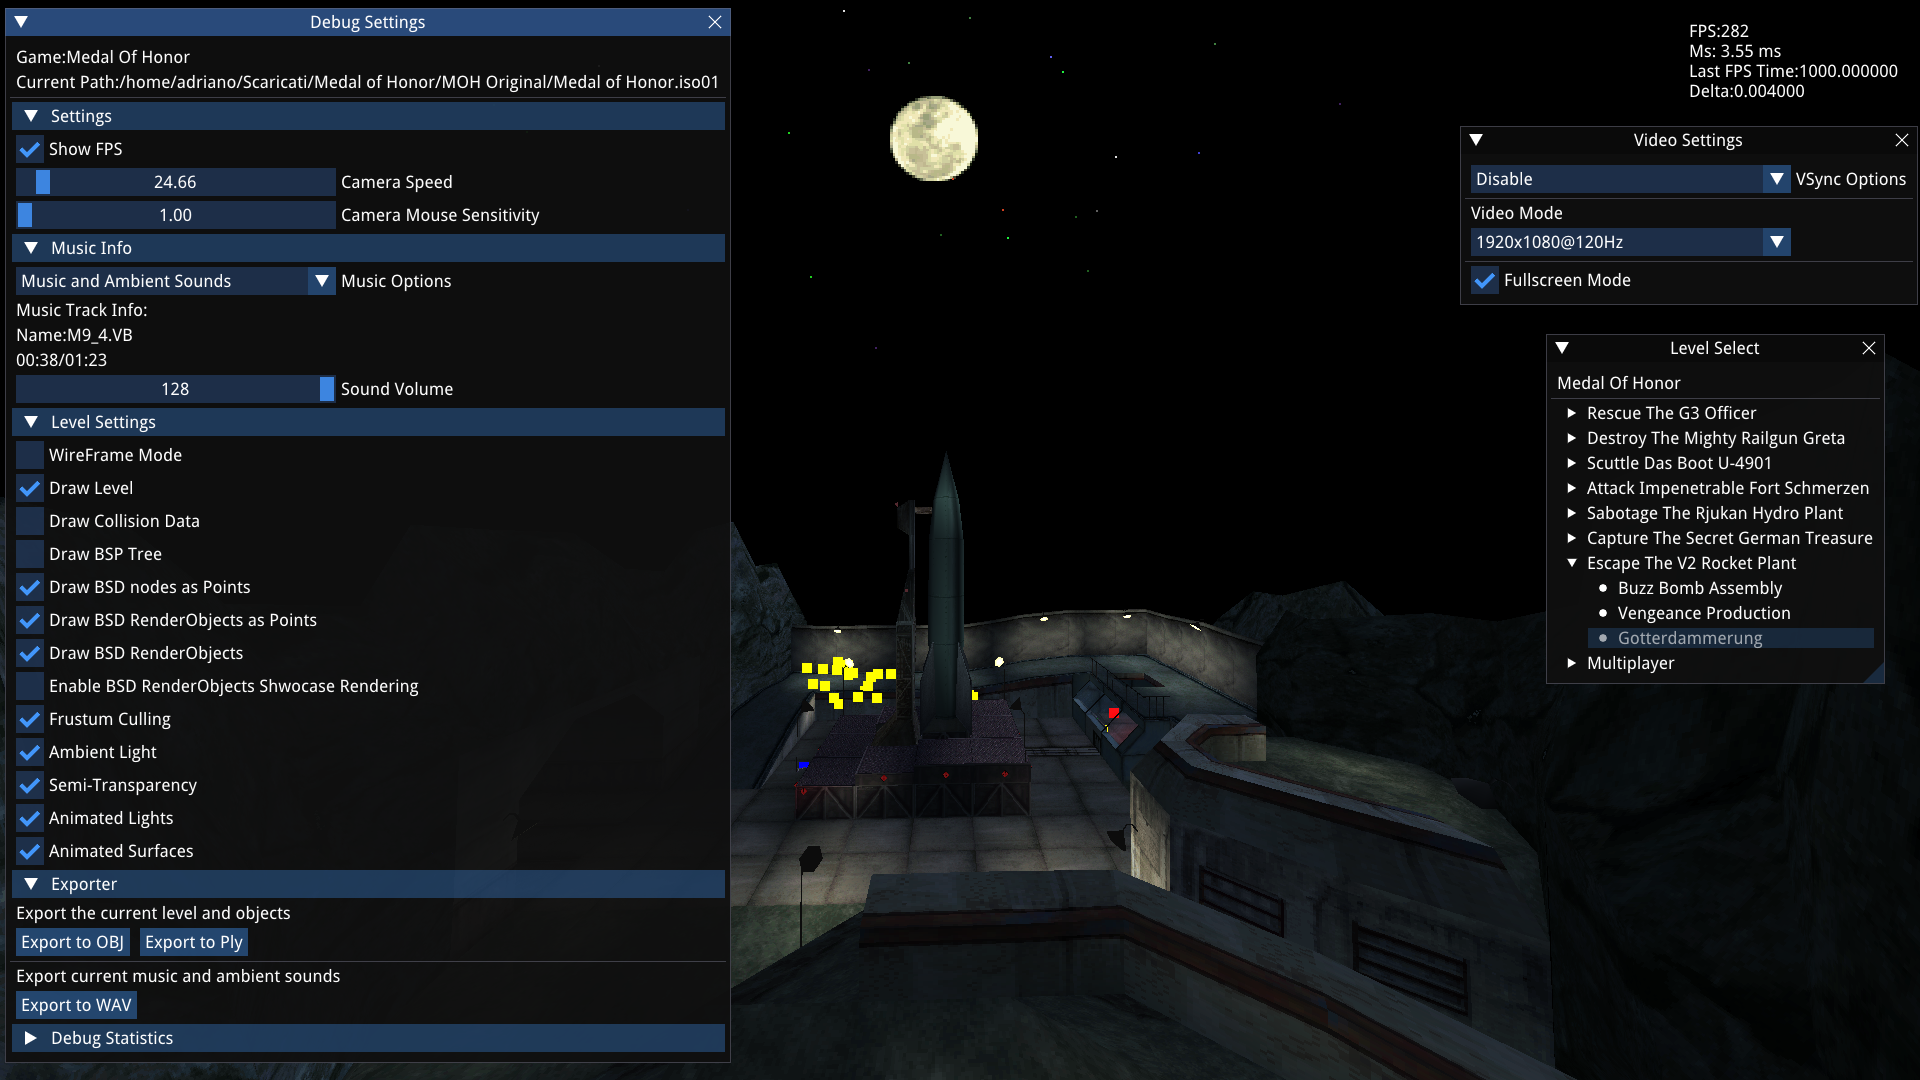
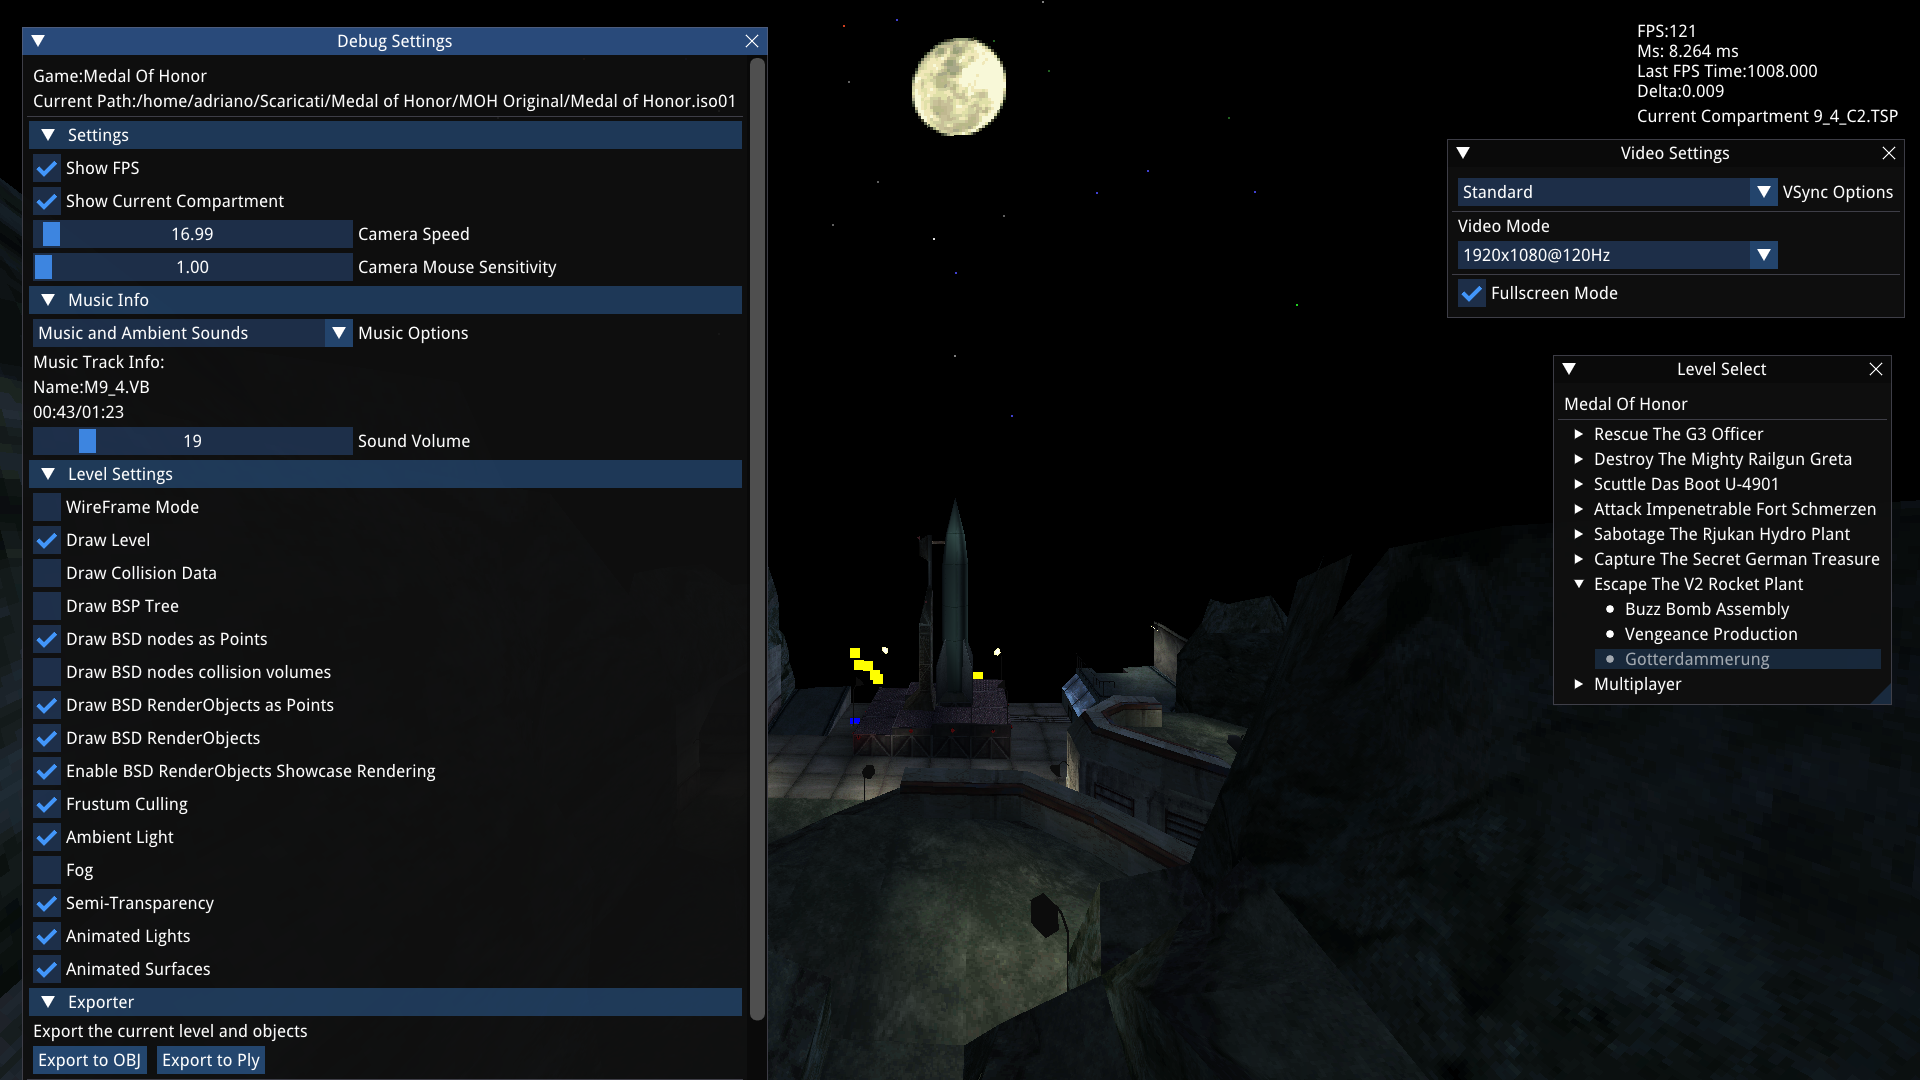
MOHLevelViewer:Added ambient fog. BSD:Added FogNear value when parsing SceneInfo struct. Level:Added a new option to enable/disable fog. LevelManager:Added the ability to update the Fog near and color value when a level is loaded. RenderObjectShader:Added Fog section to interpolate the color value w

diff --git a/src/MOHLevelViewer/BSD.c b/src/MOHLevelViewer/BSD.c
@@ -1860,6 +1860,7 @@ void BSDDraw(BSD_t *BSD,VRAM_t *VRAM,Camera_t *Camera,RenderObjectShader_t *Rend
     BSDRenderObjectDrawable_t *RenderObjectIterator;
     VAO_t *VAOIterator;
     mat4 MVPMatrix;
+    mat4 MVMatrix;
     mat4 ModelViewMatrix;
     mat4 ModelMatrix;
     vec3 PSpawn;
@@ -1926,6 +1927,7 @@ void BSDDraw(BSD_t *BSD,VRAM_t *VRAM,Camera_t *Camera,RenderObjectShader_t *Rend
             glActiveTexture(GL_TEXTURE0 + 1);
             glBindTexture(GL_TEXTURE_2D, VRAM->PalettePage.TextureId);
             glUniform1i(RenderObjectShader->EnableLightingId, LevelEnableAmbientLight->IValue);
+            glUniform1i(RenderObjectShader->EnableFogId, LevelEnableFog->IValue);
             for( RenderObjectIterator = BSD->RenderObjectDrawableList; RenderObjectIterator; 
                 RenderObjectIterator = RenderObjectIterator->Next ) {
                 glm_mat4_identity(ModelViewMatrix);
@@ -1933,8 +1935,9 @@ void BSDDraw(BSD_t *BSD,VRAM_t *VRAM,Camera_t *Camera,RenderObjectShader_t *Rend
                 glm_mat4_mul(Camera->ViewMatrix,ModelMatrix,ModelViewMatrix);
                 glm_mat4_mul(ProjectionMatrix,ModelViewMatrix,MVPMatrix);            
                 glm_rotate_x(MVPMatrix,glm_rad(180.f), MVPMatrix);
+                glm_rotate_x(ModelViewMatrix,glm_rad(180.f), MVMatrix);
                 glUniformMatrix4fv(RenderObjectShader->MVPMatrixId,1,false,&MVPMatrix[0][0]);
-
+                glUniformMatrix4fv(RenderObjectShader->MVMatrixId,1,false,&MVMatrix[0][0]);
                 for( VAOIterator = BSD->RenderObjectList[RenderObjectIterator->RenderObjectIndex].VAO; VAOIterator; 
                     VAOIterator = VAOIterator->Next ) {
                     glBindVertexArray(VAOIterator->VAOId[0]);
@@ -1952,6 +1955,7 @@ void BSDDraw(BSD_t *BSD,VRAM_t *VRAM,Camera_t *Camera,RenderObjectShader_t *Rend
         if( RenderObjectShader ) {
             glUseProgram(RenderObjectShader->Shader->ProgramId);
             glUniform1i(RenderObjectShader->EnableLightingId, LevelEnableAmbientLight->IValue);
+            glUniform1i(RenderObjectShader->EnableFogId, LevelEnableFog->IValue);
             glActiveTexture(GL_TEXTURE0 + 0);
             glBindTexture(GL_TEXTURE_2D, VRAM->TextureIndexPage.TextureId);
             glActiveTexture(GL_TEXTURE0 + 1);
@@ -1971,8 +1975,9 @@ void BSDDraw(BSD_t *BSD,VRAM_t *VRAM,Camera_t *Camera,RenderObjectShader_t *Rend
                 
                 //Emulate PSX Coordinate system...
                 glm_rotate_x(MVPMatrix,glm_rad(180.f), MVPMatrix);
+                glm_rotate_x(ModelViewMatrix,glm_rad(180.f), MVMatrix);
                 glUniformMatrix4fv(RenderObjectShader->MVPMatrixId,1,false,&MVPMatrix[0][0]);
-
+                glUniformMatrix4fv(RenderObjectShader->MVMatrixId,1,false,&MVMatrix[0][0]);
                 for( VAOIterator = BSD->RenderObjectList[i].VAO; VAOIterator; VAOIterator = VAOIterator->Next ) {
                     glBindVertexArray(VAOIterator->VAOId[0]);
                     glDrawArrays(GL_TRIANGLES, 0, VAOIterator->Count);

diff --git a/src/MOHLevelViewer/LevelManager.c b/src/MOHLevelViewer/LevelManager.c
@@ -522,6 +522,7 @@ void LevelManagerSwitchLevel(LevelManager_t *LevelManager,Level_t *NewLevel)
     if( LevelEnableMusicTrack->IValue && NewLevel->MusicList) {
         SoundSystemPlay(LevelManager->SoundSystem);
     }
+    LevelManagerUpdateRenderObjectShaderFog(LevelManager);
 }
 void LevelManagerDrawString(const LevelManager_t *LevelManager,const char *String,float x,float y,Color4f_t Color)
 {
@@ -915,7 +916,7 @@ void LevelManagerToggleFileDialog(LevelManager_t *LevelManager,GUI_t *GUI,VideoS
 int LevelManagerInitRenderObjectShader(LevelManager_t *LevelManager)
 {
     Shader_t *Shader;
-    
+    vec3 ClearColor;
     if( !LevelManager ) {
         DPrintf("LevelManagerInitRenderObjectShader:Invalid LevelManager\n");
         return 0;
@@ -933,13 +934,36 @@ int LevelManagerInitRenderObjectShader(LevelManager_t *LevelManager)
     LevelManager->RenderObjectShader->Shader = Shader;
     glUseProgram(LevelManager->RenderObjectShader->Shader->ProgramId);
     LevelManager->RenderObjectShader->MVPMatrixId = glGetUniformLocation(Shader->ProgramId,"MVPMatrix");
+    LevelManager->RenderObjectShader->MVMatrixId = glGetUniformLocation(Shader->ProgramId,"MVMatrix");
     LevelManager->RenderObjectShader->EnableLightingId = glGetUniformLocation(Shader->ProgramId,"EnableLighting");
     LevelManager->RenderObjectShader->PaletteTextureId = glGetUniformLocation(Shader->ProgramId,"ourPaletteTexture");
     LevelManager->RenderObjectShader->TextureIndexId = glGetUniformLocation(Shader->ProgramId,"ourIndexTexture");
+    LevelManager->RenderObjectShader->EnableFogId = glGetUniformLocation(Shader->ProgramId,"EnableFog");
+    LevelManager->RenderObjectShader->FogNearId = glGetUniformLocation(Shader->ProgramId,"FogNear");
+    LevelManager->RenderObjectShader->FogColorId = glGetUniformLocation(Shader->ProgramId,"FogColor");
     glUniform1i(LevelManager->RenderObjectShader->TextureIndexId, 0);
     glUniform1i(LevelManager->RenderObjectShader->PaletteTextureId,  1);
     glUniform1i(LevelManager->RenderObjectShader->EnableLightingId, 0);
+    glUniform1i(LevelManager->RenderObjectShader->EnableFogId, 0);
+    glUniform1f(LevelManager->RenderObjectShader->FogNearId, 0);
+    glGetFloatv(GL_COLOR_CLEAR_VALUE, ClearColor);
+    glUniform3fv(LevelManager->RenderObjectShader->FogColorId, 1, ClearColor);
     return 1;
+}
+void LevelManagerUpdateRenderObjectShaderFog(LevelManager_t *LevelManager)
+{
+    vec3 ClearColor;
+    if( !LevelManager ) {
+        return;
+    }
+    if( !LevelManagerIsLevelLoaded(LevelManager) ) {
+        return;
+    }
+    glUseProgram(LevelManager->RenderObjectShader->Shader->ProgramId);
+    glUniform1f(LevelManager->RenderObjectShader->FogNearId, LevelManager->CurrentLevel->BSD->SceneInfo.FogNear);
+    glGetFloatv(GL_COLOR_CLEAR_VALUE, ClearColor);
+    glUniform3fv(LevelManager->RenderObjectShader->FogColorId, 1, ClearColor);
+    glUseProgram(0);
 }
 LevelManager_t *LevelManagerInit(GUI_t *GUI,VideoSystem_t *VideoSystem)
 {

diff --git a/src/MOHLevelViewer/LevelManager.h b/src/MOHLevelViewer/LevelManager.h
@@ -46,7 +46,11 @@ typedef struct Mission_s {
 
 typedef struct RenderObjectShader_s {
     int             MVPMatrixId;
+    int             MVMatrixId;
     int             EnableLightingId;
+    int             EnableFogId;
+    int             FogNearId;
+    int             FogColorId;
     int             PaletteTextureId;
     int             TextureIndexId;
     Shader_t        *Shader;
@@ -83,6 +87,7 @@ int             LevelManagerIsLevelLoaded(const LevelManager_t *LevelManager);
 int             LevelManagerGetGameEngine(LevelManager_t *LevelManager);
 int             LevelManagerInitWithPath(LevelManager_t *LevelManager,GUI_t *GUI,VideoSystem_t *VideoSystem,
                                          const char *Path);
+void            LevelManagerUpdateRenderObjectShaderFog(LevelManager_t *LevelManager);
 TSP_t           *LevelManagerGetTSPCompartmentByPoint(LevelManager_t *LevelManager,vec3 Point);
 void            LevelManagerUpdate(LevelManager_t *LevelManager,Camera_t *Camera);
 void            LevelManagerDraw(LevelManager_t *LevelManager,Camera_t *Camera);

diff --git a/src/MOHLevelViewer/TSP.c b/src/MOHLevelViewer/TSP.c
@@ -1440,6 +1440,7 @@ void TSPDrawList(TSP_t *TSPList,VRAM_t *VRAM,Camera_t *Camera,RenderObjectShader
 {
     TSP_t *Iterator;
     mat4 MVPMatrix;
+    mat4 MVMatrix;
     
     if( !TSPList ) {
         DPrintf("TSPDrawList:Invalid TSP data\n");
@@ -1454,9 +1455,12 @@ void TSPDrawList(TSP_t *TSPList,VRAM_t *VRAM,Camera_t *Camera,RenderObjectShader
     
     //Emulate PSX Coordinate system...
     glm_rotate_x(MVPMatrix,glm_rad(180.f), MVPMatrix);
+    glm_rotate_x(Camera->ViewMatrix,glm_rad(180.f), MVMatrix);
     glUseProgram(RenderObjectShader->Shader->ProgramId);
     glUniform1i(RenderObjectShader->EnableLightingId, LevelEnableAmbientLight->IValue);
+    glUniform1i(RenderObjectShader->EnableFogId, LevelEnableFog->IValue);
     glUniformMatrix4fv(RenderObjectShader->MVPMatrixId,1,false,&MVPMatrix[0][0]);
+    glUniformMatrix4fv(RenderObjectShader->MVMatrixId,1,false,&MVMatrix[0][0]);
     for( Iterator = TSPList; Iterator; Iterator = Iterator->Next ) {
         glEnable(GL_CULL_FACE);
         glCullFace(GL_FRONT);  

diff --git a/src/MOHLevelViewer/MOHLevelViewer.c b/src/MOHLevelViewer/MOHLevelViewer.c
@@ -242,6 +242,7 @@ void RegisterDefaultSettings()
     ConfigRegister("LevelEnableFrustumCulling","1","When enabled helps to skip non visibile nodes from the BSP tree improving the rendering speed");
     ConfigRegister("LevelEnableAmbientLight","1","When enabled the texture color is interpolated with the surface color to simulate lights on \n"
                                                     "surfaces");
+    ConfigRegister("LevelEnableFog","1","When enabled it will draw a fog based on the camera distance and level parameters.");
     ConfigRegister("LevelEnableSemiTransparency","1","When enabled draw transparent surfaces as non-opaque");
     ConfigRegister("LevelEnableAnimatedLights","1","When enabled some surfaces will interpolate their color to simulate an animated surface.\n"
                                        "NOTE that this will only work if \"LevelEnableAmbientLight\" is enabled");

diff --git a/src/MOHLevelViewer/GUI.c b/src/MOHLevelViewer/GUI.c
@@ -223,6 +223,9 @@ void GUIDrawDebugWindow(GUI_t *GUI,LevelManager_t *LevelManager,Camera_t *Camera
                 if( GUICheckBoxWithTooltip("Ambient Light",(bool *) &LevelEnableAmbientLight->IValue,LevelEnableAmbientLight->Description) ) {
                     ConfigSetNumber("LevelEnableAmbientLight",LevelEnableAmbientLight->IValue);
                 }
+                if( GUICheckBoxWithTooltip("Fog",(bool *) &LevelEnableFog->IValue,LevelEnableFog->Description ) ){
+                    ConfigSetNumber("LevelEnableFog",LevelEnableFog->IValue);
+                }
                 if( GUICheckBoxWithTooltip("Semi-Transparency",(bool *) &LevelEnableSemiTransparency->IValue,
                     LevelEnableSemiTransparency->Description) ) {
                     ConfigSetNumber("LevelEnableSemiTransparency",LevelEnableSemiTransparency->IValue);

diff --git a/src/MOHLevelViewer/Level.c b/src/MOHLevelViewer/Level.c
@@ -33,6 +33,7 @@ Config_t *LevelDrawBSDRenderObjects;
 Config_t *LevelDrawBSDShowcase;
 Config_t *LevelEnableFrustumCulling;
 Config_t *LevelEnableAmbientLight;
+Config_t *LevelEnableFog;
 Config_t *LevelEnableSemiTransparency;
 Config_t *LevelEnableAnimatedLights;
 Config_t *LevelEnableAnimatedSurfaces;
@@ -202,6 +203,7 @@ void LevelLoadDefaultSettings()
     LevelDrawBSDShowcase = ConfigGet("LevelDrawBSDShowcase");
     LevelEnableFrustumCulling = ConfigGet("LevelEnableFrustumCulling");
     LevelEnableAmbientLight = ConfigGet("LevelEnableAmbientLight");
+    LevelEnableFog = ConfigGet("LevelEnableFog");
     LevelEnableSemiTransparency = ConfigGet("LevelEnableSemiTransparency");
     LevelEnableAnimatedLights = ConfigGet("LevelEnableAnimatedLights");
     LevelEnableAnimatedSurfaces = ConfigGet("LevelEnableAnimatedSurfaces");

diff --git a/src/MOHLevelViewer/BSD.h b/src/MOHLevelViewer/BSD.h
@@ -339,9 +339,10 @@ typedef struct BSDSky_s {
 } BSDSky_t;
 
 typedef struct BSDSceneInfo_s {
-    char Unknown[62];
-    Color3b_t ClearColor;
-    char Unknown2[7];
+    char        Unknown[60];
+    short       FogNear;
+    Color3b_t   ClearColor;
+    char        Unknown2[7];
 } BSDSceneInfo_t;
 typedef struct BSD_s {
     BSDHeader_t                 Header;

diff --git a/src/MOHLevelViewer/Level.h b/src/MOHLevelViewer/Level.h
@@ -73,6 +73,7 @@ extern Config_t *LevelDrawBSDRenderObjects;
 extern Config_t *LevelDrawBSDShowcase;
 extern Config_t *LevelEnableFrustumCulling;
 extern Config_t *LevelEnableAmbientLight;
+extern Config_t *LevelEnableFog;
 extern Config_t *LevelEnableSemiTransparency;
 extern Config_t *LevelEnableAnimatedLights;
 extern Config_t *LevelEnableAnimatedSurfaces;
